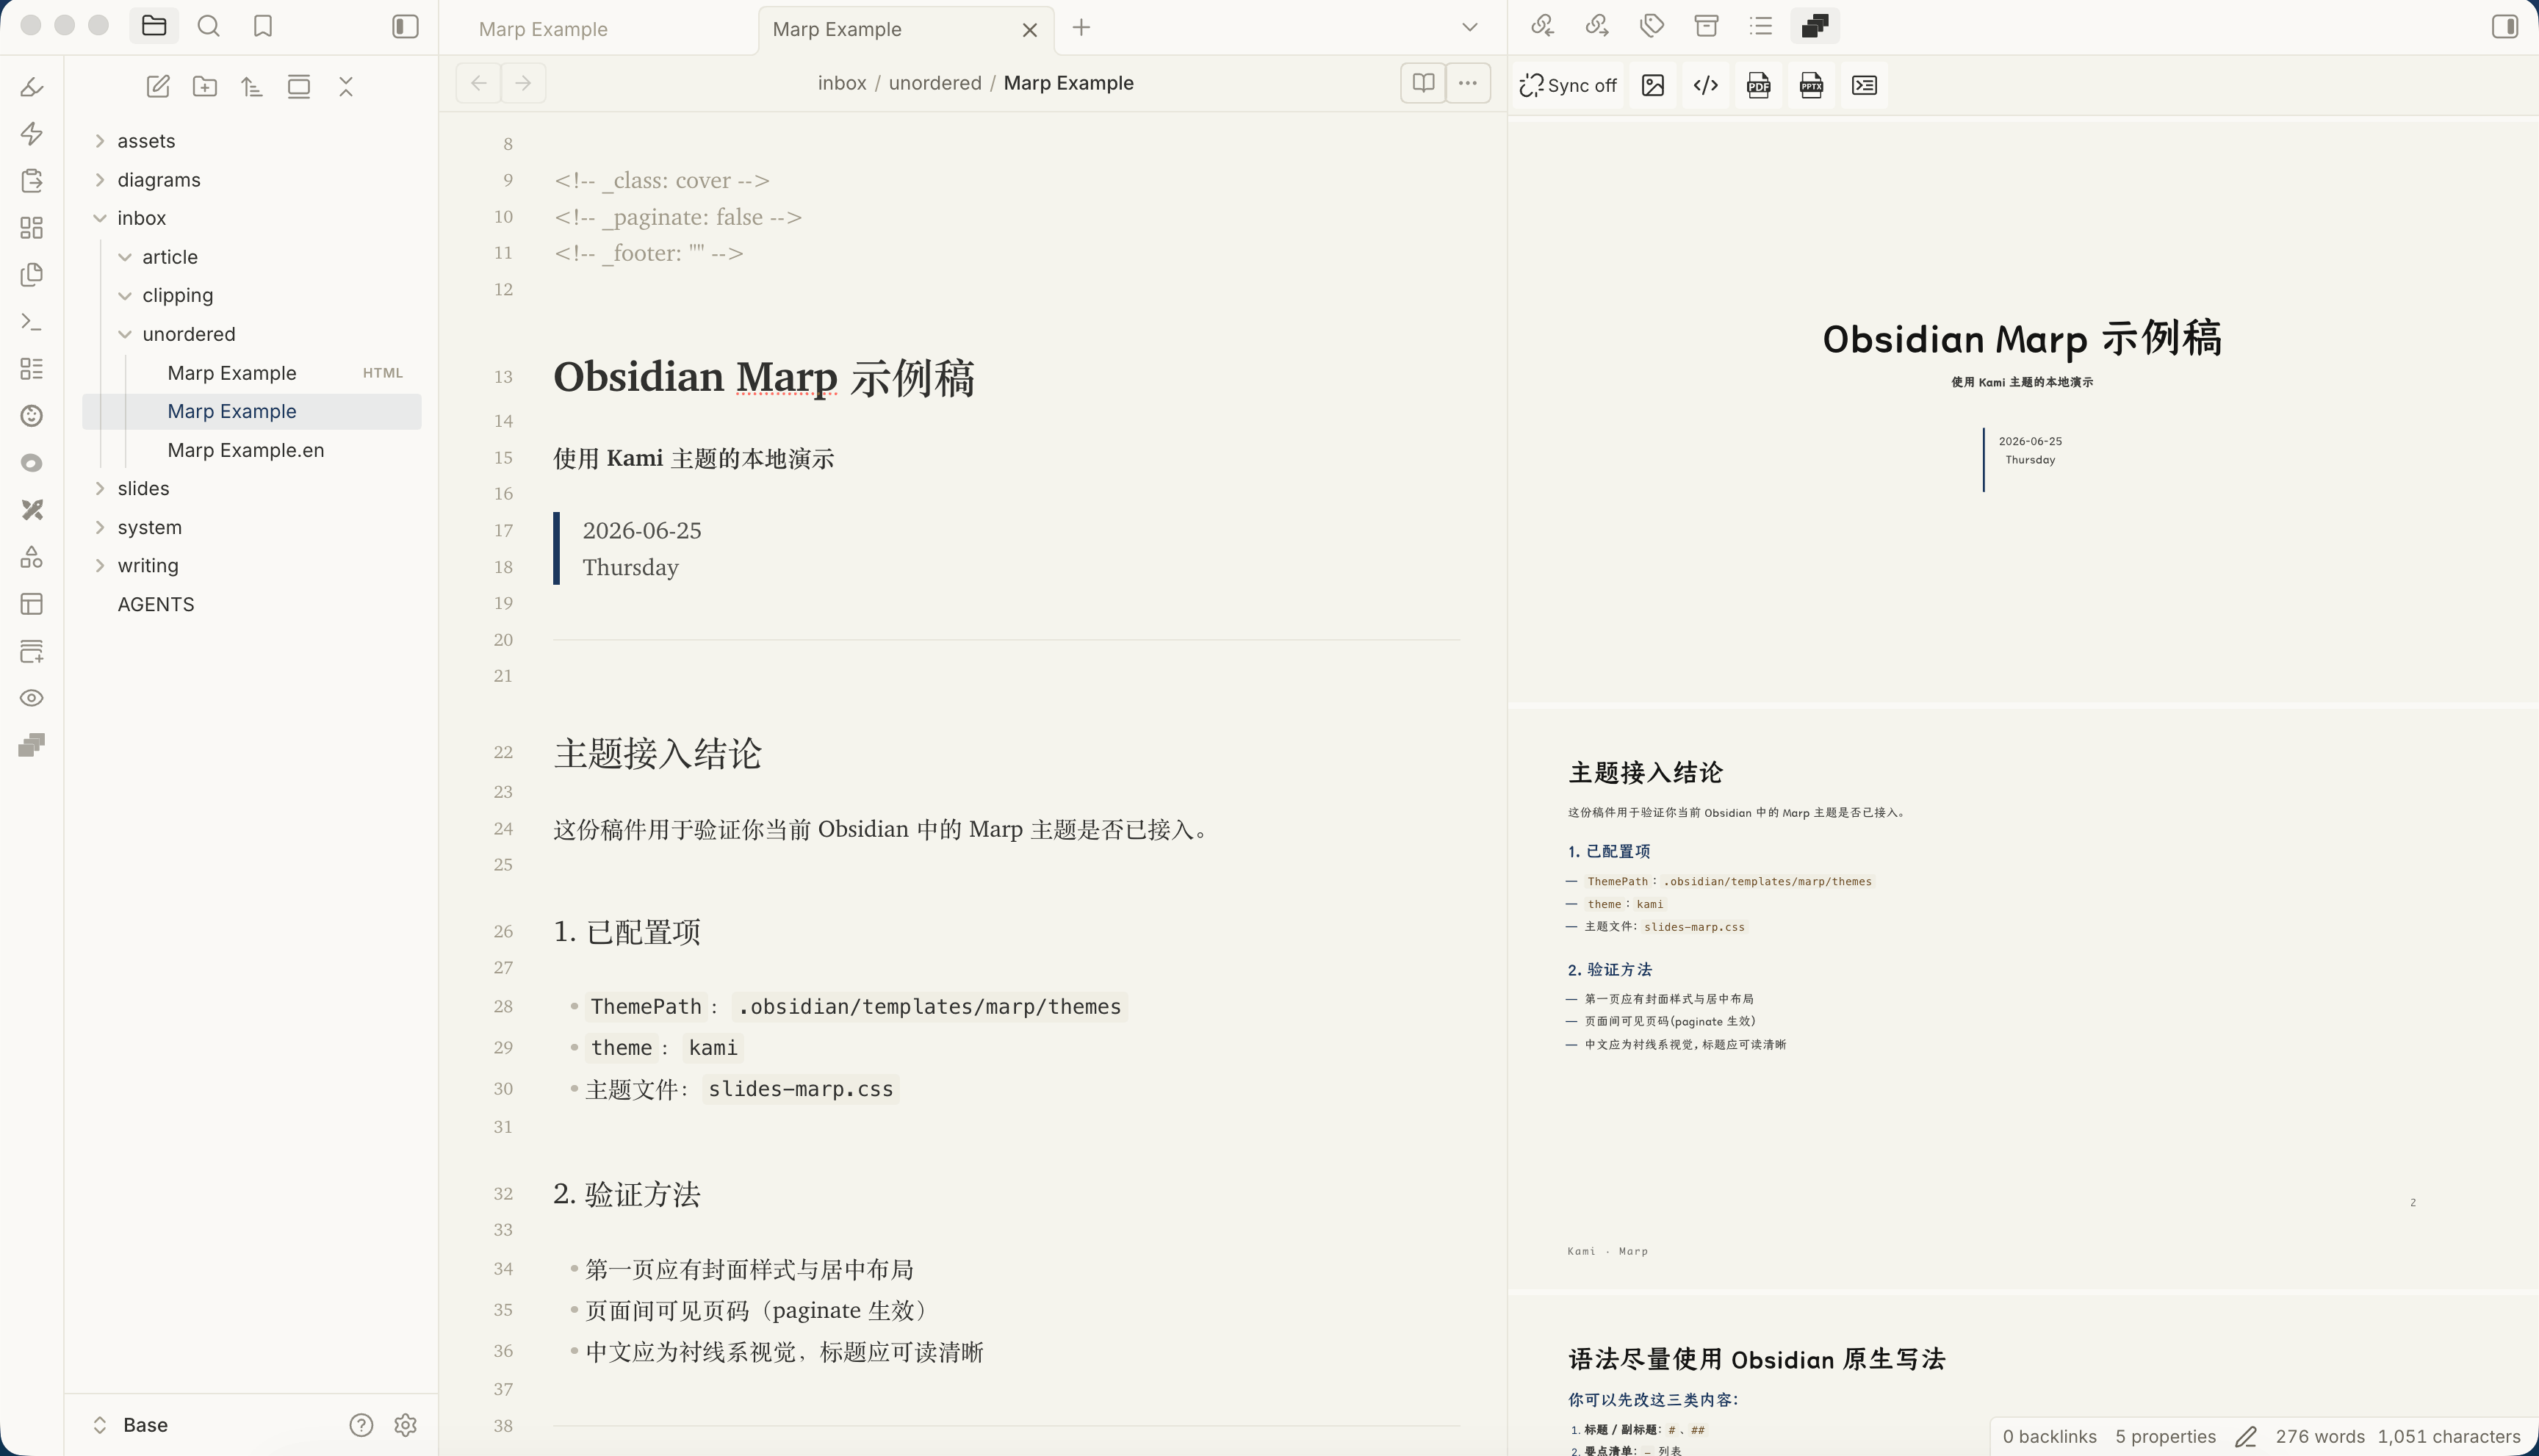
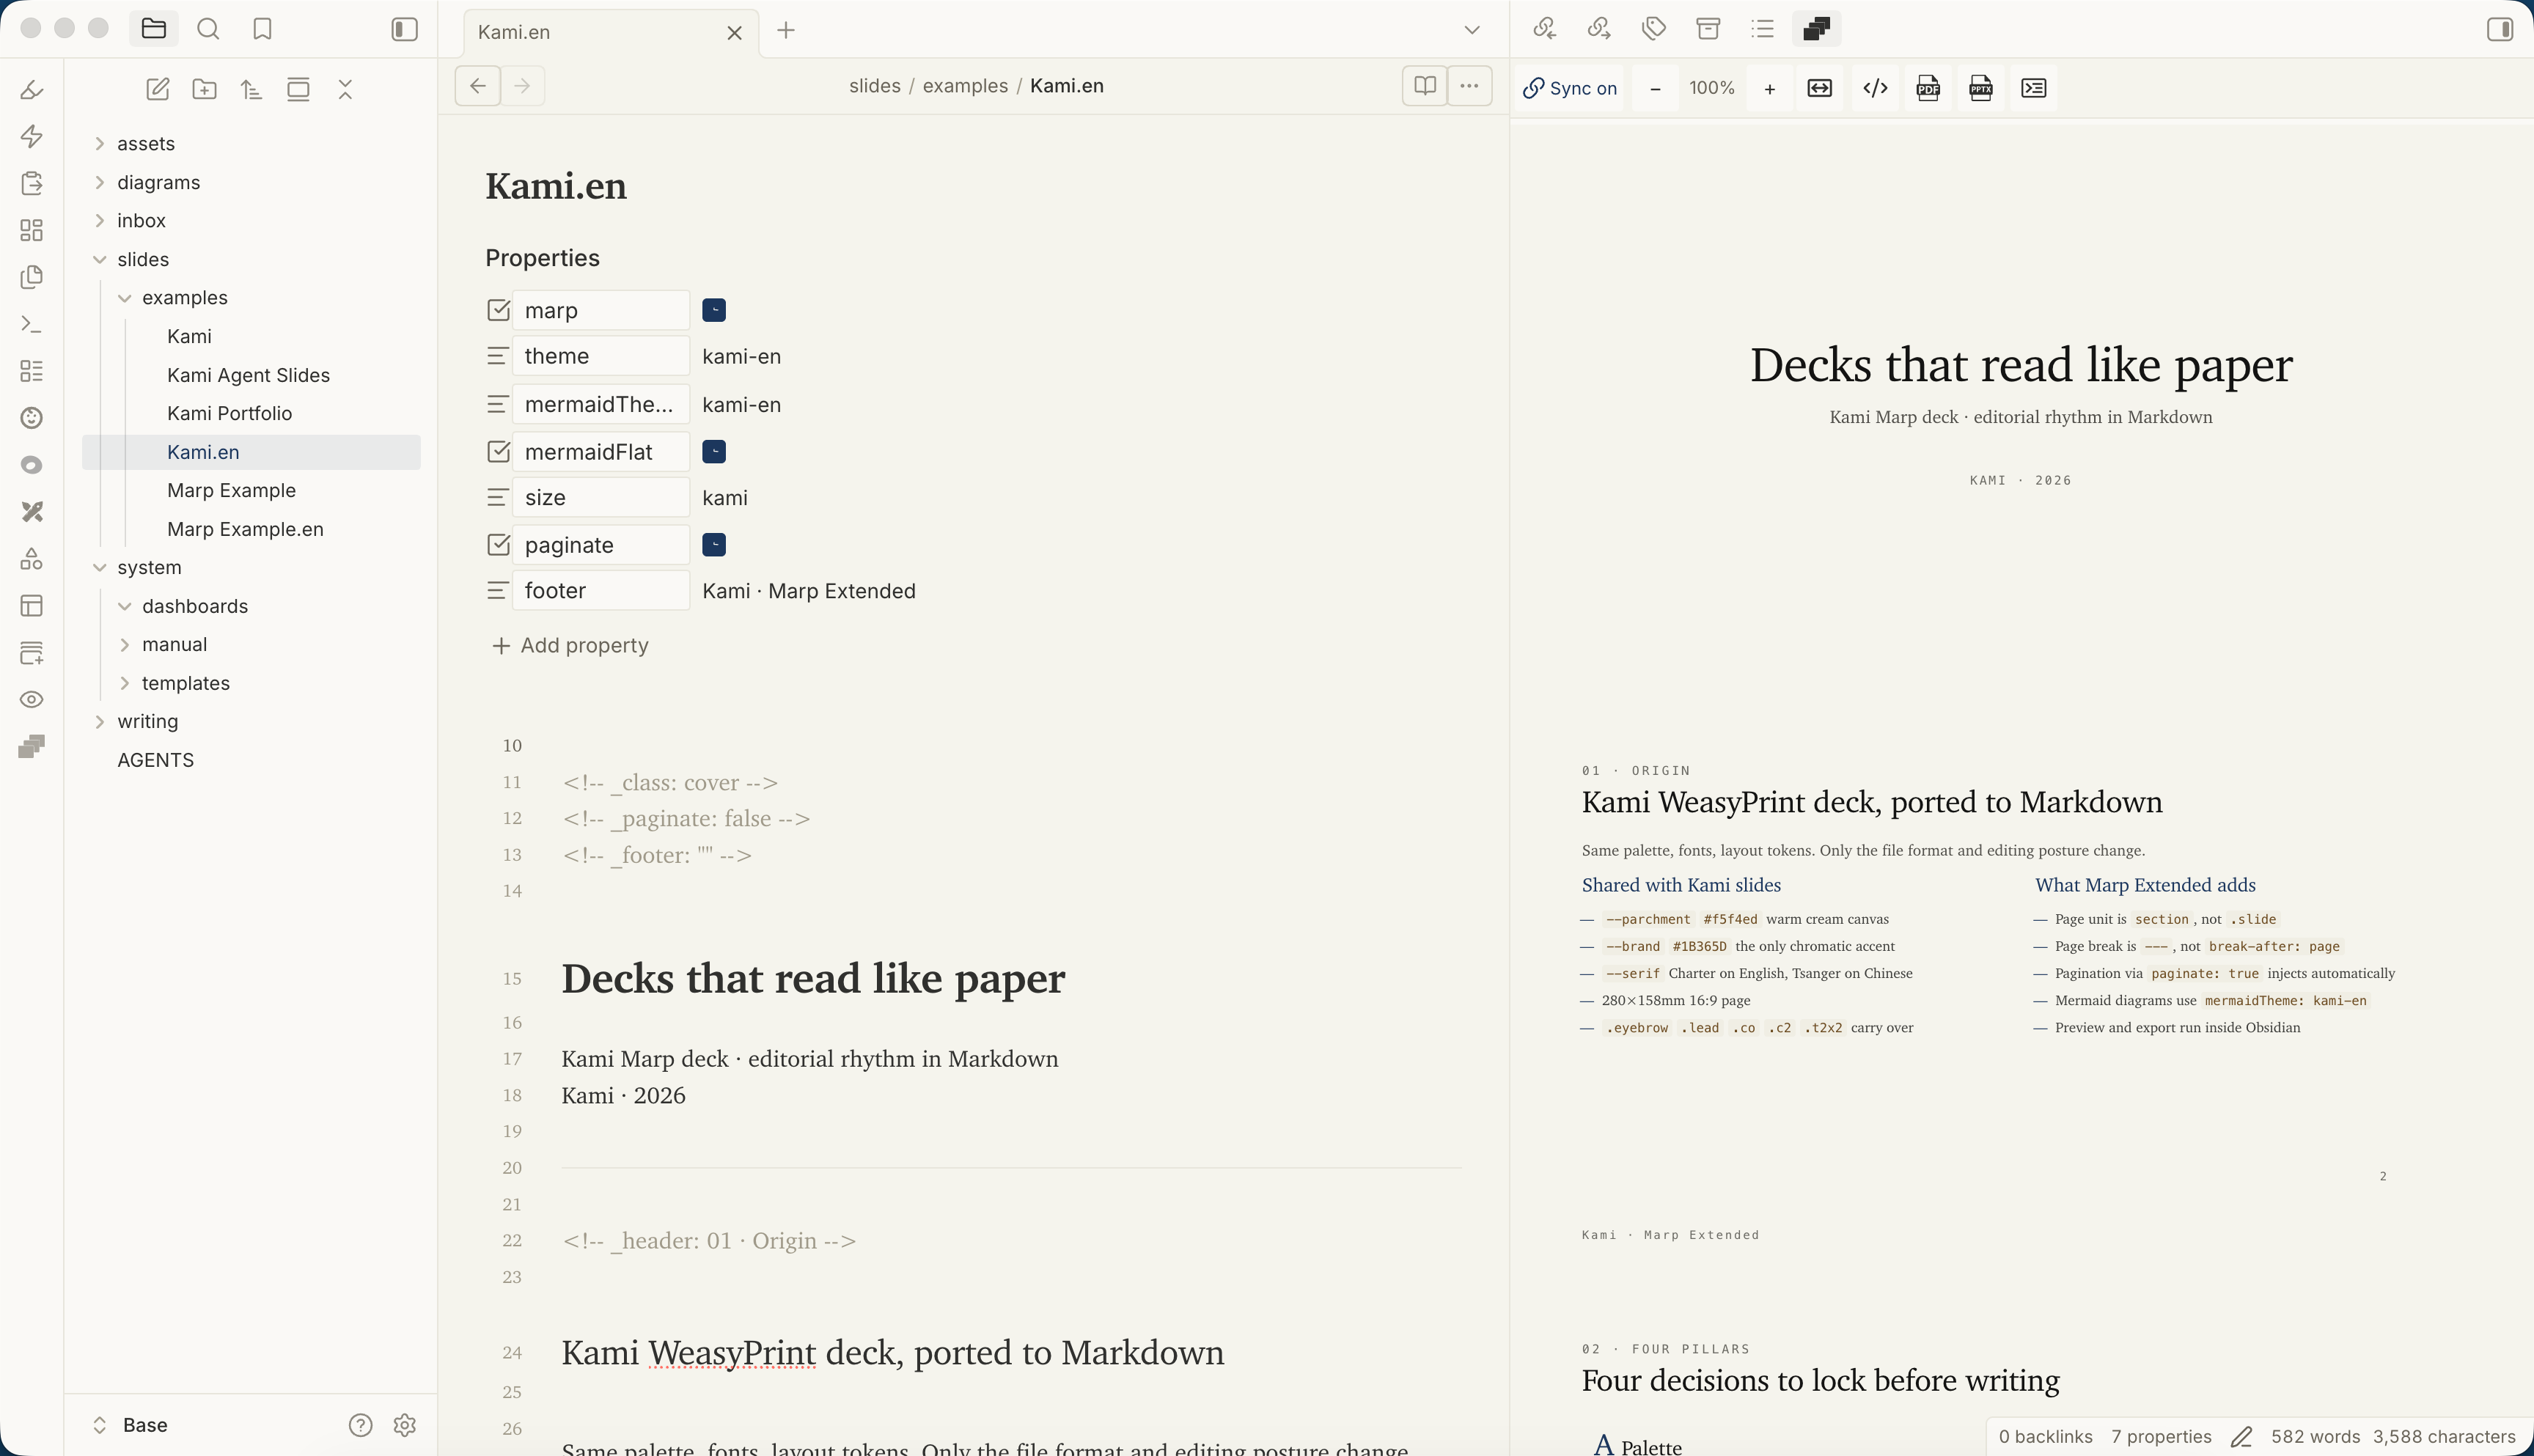
fix(export): remove PNG export option
Amp-Thread-ID: https://ampcode.com/threads/T-019f04c1-cb47-749e-b7e0-91de7cf0b121

diff --git a/tests/unit/marpExport.test.ts b/tests/unit/marpExport.test.ts
@@ -24,7 +24,7 @@ const marpCliMock = marpCli as unknown as jest.MockedFunction<(argv: string[], o
 type TestElectronRequire = (moduleName: string) => {
 	remote?: {
 		dialog?: {
-			showOpenDialog: (options: unknown) => Promise<{ canceled: boolean; filePaths?: string[] }>;
+			showSaveDialog?: (options: unknown) => Promise<{ canceled: boolean; filePath?: string }>;
 		};
 	};
 };
@@ -74,15 +74,13 @@ function createDiskBackedFile(root: string, markdownPath: string, content: strin
 
 	return file;
 }
-
-
-function mockFolderPicker(result: { canceled: boolean; filePaths?: string[] }) {
-	const showOpenDialog = jest.fn(async (_options: unknown) => result);
+function mockSaveDialog(result: { canceled: boolean; filePath?: string }) {
+	const showSaveDialog = jest.fn(async (_options: unknown) => result);
 	const electronRequire: TestElectronRequire = (moduleName: string) => {
 		if (moduleName === 'electron') {
 			return {
 				remote: {
-					dialog: { showOpenDialog },
+					dialog: { showSaveDialog },
 				},
 			};
 		}
@@ -91,7 +89,7 @@ function mockFolderPicker(result: { canceled: boolean; filePaths?: string[] }) {
 	};
 	(window as TestWindow).require = electronRequire;
 
-	return showOpenDialog;
+	return showSaveDialog;
 }
 
 beforeEach(() => {
@@ -106,27 +104,27 @@ afterEach(() => {
 	}
 });
 
-test('export selects a folder and passes output path to Marp CLI', async () => {
-	const showOpenDialog = mockFolderPicker({ canceled: false, filePaths: ['/tmp/export'] });
+test('export selects a file and passes output path to Marp CLI', async () => {
+	const showSaveDialog = mockSaveDialog({ canceled: false, filePath: '/tmp/export/custom.pdf' });
 	const exporter = new MarpExport(DEFAULT_SETTINGS);
 
 	await exporter.export(createFile(), 'pdf');
 
-	expect(showOpenDialog).toHaveBeenCalledWith({
-		title: 'Choose export folder',
-		defaultPath: 'vault/slides',
-		properties: ['openDirectory', 'createDirectory'],
+	expect(showSaveDialog).toHaveBeenCalledWith({
+		title: 'Choose export file',
+		defaultPath: 'vault/slides/deck.pdf',
+		filters: [{ name: 'PDF', extensions: ['pdf'] }],
 	});
 	expect(marpCliMock).toHaveBeenCalledTimes(1);
 	expect(marpCliMock.mock.calls[0][0]).toEqual(expect.arrayContaining([
 		'--pdf',
 		'-o',
-		'/tmp/export/deck.pdf',
+		'/tmp/export/custom.pdf',
 	]));
 });
 
 test('export cancellation does not run Marp CLI', async () => {
-	mockFolderPicker({ canceled: true });
+	mockSaveDialog({ canceled: true });
 	const exporter = new MarpExport(DEFAULT_SETTINGS);
 
 	await exporter.export(createFile(), 'pptx');
@@ -134,8 +132,8 @@ test('export cancellation does not run Marp CLI', async () => {
 	expect(marpCliMock).not.toHaveBeenCalled();
 });
 
-test('HTML export uses selected folder for output file', async () => {
-	mockFolderPicker({ canceled: false, filePaths: ['/tmp/export'] });
+test('HTML export uses selected file for output file', async () => {
+	mockSaveDialog({ canceled: false, filePath: '/tmp/export/custom.html' });
 	const exporter = new MarpExport(DEFAULT_SETTINGS);
 
 	await exporter.export(createFile(), 'html');
@@ -145,24 +143,8 @@ test('HTML export uses selected folder for output file', async () => {
 		'--template',
 		'bare',
 		'-o',
-		'/tmp/export/deck.html',
+		'/tmp/export/custom.html',
 	]));
-});
-
-test('PNG export writes the selected PNG output file', async () => {
-	mockFolderPicker({ canceled: false, filePaths: ['/tmp/export'] });
-	const exporter = new MarpExport(DEFAULT_SETTINGS);
-
-	await exporter.export(createFile(), 'png');
-
-	expect(marpCliMock.mock.calls[0][0]).toEqual(expect.arrayContaining([
-		'--image',
-		'png',
-		'-o',
-		'/tmp/export/deck.png',
-	]));
-	expect(marpCliMock.mock.calls[0][0]).not.toContain('--images');
-	expect(marpCliMock.mock.calls[0][0]).not.toContain('--png');
 });
 
 test('export converts wiki-links through a temporary markdown file without changing the source file', async () => {
@@ -177,7 +159,7 @@ test('export converts wiki-links through a temporary markdown file without chang
 
 	mkdirSync(exportDirectory, { recursive: true });
 	linkedImage.path = 'assets/image.png';
-	mockFolderPicker({ canceled: false, filePaths: [exportDirectory] });
+	mockSaveDialog({ canceled: false, filePath: join(exportDirectory, 'deck.pdf') });
 	marpCliMock.mockImplementationOnce(async (argv: string[]) => {
 		temporarySourcePath = argv[0];
 		expect(temporarySourcePath).not.toBe(sourcePath);
@@ -226,7 +208,7 @@ test('export injects selected Mermaid theme CSS and flat mode into the temporary
 		folders: [],
 	});
 	(file.vault.adapter as any).read = async (path: string) => readFileSync(join(root, path), 'utf-8');
-	mockFolderPicker({ canceled: false, filePaths: [exportDirectory] });
+	mockSaveDialog({ canceled: false, filePath: join(exportDirectory, 'deck.html') });
 	marpCliMock.mockImplementationOnce(async (argv: string[]) => {
 		temporarySourcePath = argv[0];
 		const processed = readFileSync(temporarySourcePath, 'utf-8');
@@ -256,7 +238,7 @@ test('export injects selected Mermaid theme CSS and flat mode into the temporary
 	expect(readFileSync(join(root, 'slides/deck.md'), 'utf-8')).toBe(originalContent);
 });
 
-test('export falls back to the source folder when native folder picker is unavailable', async () => {
+test('export falls back to the source path when native save dialog is unavailable', async () => {
 	const exporter = new MarpExport(DEFAULT_SETTINGS);
 
 	const outputPath = await exporter.export(createFile(), 'html');
@@ -269,7 +251,7 @@ test('export falls back to the source folder when native folder picker is unavai
 });
 
 test('export passes configured browser path to Marp CLI', async () => {
-	mockFolderPicker({ canceled: false, filePaths: ['/tmp/export'] });
+	mockSaveDialog({ canceled: false, filePath: '/tmp/export/deck.pdf' });
 	const exporter = new MarpExport({
 		...DEFAULT_SETTINGS,
 		CHROME_PATH: '/Applications/Google Chrome.app/Contents/MacOS/Google Chrome',
@@ -284,7 +266,7 @@ test('export passes configured browser path to Marp CLI', async () => {
 });
 
 test('export throws when Marp CLI returns a failing exit status', async () => {
-	mockFolderPicker({ canceled: false, filePaths: ['/tmp/export'] });
+	mockSaveDialog({ canceled: false, filePath: '/tmp/export/deck.html' });
 	marpCliMock.mockResolvedValue(1);
 	const exporter = new MarpExport(DEFAULT_SETTINGS);
 
@@ -292,7 +274,7 @@ test('export throws when Marp CLI returns a failing exit status', async () => {
 });
 
 test('export keeps Obsidian app URL createRequire patch while Marp CLI runs', async () => {
-	mockFolderPicker({ canceled: false, filePaths: ['/tmp/export'] });
+	mockSaveDialog({ canceled: false, filePath: '/tmp/export/deck.html' });
 	marpCliMock.mockImplementation(async () => {
 		const nodeModule = require('node:module') as { createRequire(filename: string | URL): NodeRequireFunction };
 
@@ -311,7 +293,7 @@ test('export forces CommonJS engine resolution only while Marp CLI runs', async 
 	const runtimeProcess = process as typeof process & { pkg?: unknown };
 	const hadPkg = Object.prototype.hasOwnProperty.call(runtimeProcess, 'pkg');
 	const originalPkg = runtimeProcess.pkg;
-	mockFolderPicker({ canceled: false, filePaths: ['/tmp/export'] });
+	mockSaveDialog({ canceled: false, filePath: '/tmp/export/deck.html' });
 	delete runtimeProcess.pkg;
 	marpCliMock.mockImplementation(async () => {
 		expect(Object.prototype.hasOwnProperty.call(runtimeProcess, 'pkg')).toBe(true);

diff --git a/src/utilities/marpExport.ts b/src/utilities/marpExport.ts
@@ -9,20 +9,23 @@ import { insertMarkdownAfterFrontmatter, loadMermaidThemeCssForFile, wrapMermaid
 
 export class MarpCLIError extends Error {}
 
-interface ElectronOpenDialogOptions {
+interface ElectronSaveDialogOptions {
     title: string;
     defaultPath?: string;
-    properties: string[];
+    filters?: Array<{
+        name: string;
+        extensions: string[];
+    }>;
 }
 
-interface ElectronOpenDialogResult {
+interface ElectronSaveDialogResult {
     canceled: boolean;
-    filePaths?: string[];
+    filePath?: string;
 }
 
 interface ElectronDialog {
-    showOpenDialog?: (options: ElectronOpenDialogOptions) => Promise<ElectronOpenDialogResult>;
-    showOpenDialogSync?: (options: ElectronOpenDialogOptions) => string[] | undefined;
+    showSaveDialog?: (options: ElectronSaveDialogOptions) => Promise<ElectronSaveDialogResult>;
+    showSaveDialogSync?: (options: ElectronSaveDialogOptions) => string | undefined;
 }
 
 interface ElectronModule {
@@ -68,7 +71,6 @@ const EXPORT_EXTENSIONS: Record<string, string> = {
     pdf: 'pdf',
     'pdf-with-notes': 'pdf',
     pptx: 'pptx',
-    png: 'png',
     html: 'html',
 };
 
@@ -195,11 +197,6 @@ export class MarpExport {
                     break;
                 case 'pptx':
                     argv.push('--pptx');
-                    this.pushOutputPath(argv, outputPath);
-                    break;
-                case 'png':
-                    argv.push('--image');
-                    argv.push('png');
                     this.pushOutputPath(argv, outputPath);
                     break;
                 case 'html':
@@ -354,12 +351,10 @@ export class MarpExport {
             return null;
         }
 
-        const directory = await this.chooseExportDirectory(filesTool.getCompleteFilePath(file));
-        if (!directory) {
-            return null;
-        }
+        const sourceFilePath = filesTool.getCompleteFilePath(file);
+        const defaultPath = join(dirname(sourceFilePath), `${file.basename}.${extension}`);
 
-        return join(directory, `${file.basename}.${extension}`);
+        return this.chooseExportFile(defaultPath, extension);
     }
 
     private pushOutputPath(argv: string[], outputPath: string | null): void {
@@ -380,31 +375,31 @@ export class MarpExport {
         argv.push(this.settings.CHROME_PATH);
     }
 
-    private async chooseExportDirectory(sourceFilePath: string): Promise<string | null> {
+    private async chooseExportFile(defaultPath: string, extension: string): Promise<string | null> {
         const dialog = this.getElectronDialog();
         if (!dialog) {
-            return sourceFilePath ? dirname(sourceFilePath) : null;
+            return defaultPath;
         }
 
-        const options: ElectronOpenDialogOptions = {
-            title: 'Choose export folder',
-            defaultPath: sourceFilePath ? dirname(sourceFilePath) : undefined,
-            properties: ['openDirectory', 'createDirectory'],
+        const options: ElectronSaveDialogOptions = {
+            title: 'Choose export file',
+            defaultPath,
+            filters: [{ name: extension.toUpperCase(), extensions: [extension] }],
         };
 
-        if (dialog.showOpenDialog) {
-            const result = await dialog.showOpenDialog(options);
+        if (dialog.showSaveDialog) {
+            const result = await dialog.showSaveDialog(options);
             if (result.canceled) {
                 return null;
             }
-            return result.filePaths?.[0] ?? null;
+            return result.filePath ?? null;
         }
 
-        if (dialog.showOpenDialogSync) {
-            return dialog.showOpenDialogSync(options)?.[0] ?? null;
+        if (dialog.showSaveDialogSync) {
+            return dialog.showSaveDialogSync(options) ?? null;
         }
 
-        throw new MarpCLIError('Folder picker is unavailable in this environment.');
+        return defaultPath;
     }
 
     private getElectronDialog(): ElectronDialog | null {

diff --git a/src/main.ts b/src/main.ts
@@ -98,12 +98,6 @@ export default class MarpSlides extends Plugin {
 			callback: (() => this.exportFile('pptx'))
 		});
 
-		this.addCommand({
-			id: 'export-png',
-			name: 'Export PNG',
-			callback: (() => this.exportFile('png'))
-		});		
-
 		// this.addCommand({
 		// 	id: 'export-deck',
 		// 	name: 'Export Deck',
@@ -167,14 +161,19 @@ export default class MarpSlides extends Plugin {
 			return;
 		}
 
+		let progressNotice: Notice | null = null;
 		try {
 			const { MarpExport } = await import('./utilities/marpExport');
 			const marpCli = new MarpExport(this.settings, this.app);
+			progressNotice = new Notice(`Exporting Marp slides as ${type.toUpperCase()}…`, 0);
 			const outputPath = await marpCli.export(file,type);
+			progressNotice.hide();
+			progressNotice = null;
 			if (outputPath) {
 				new Notice(`Exported Marp slides to ${outputPath}`, 7000);
 			}
 		} catch (error) {
+			progressNotice?.hide();
 			const message = error instanceof Error ? error.message : String(error);
 			console.error('Marp export failed:', error);
 			new Notice(`Marp export failed: ${message}`, 8000);

diff --git a/src/views/marpPreviewView.ts b/src/views/marpPreviewView.ts
@@ -155,7 +155,6 @@ export class MarpPreviewView extends ItemView  {
         const toolbar = container.createDiv({ cls: 'marp-extended-preview-toolbar' });
         this.addSyncPreviewToolbarButton(toolbar);
         this.addZoomToolbarControls(toolbar);
-        this.addPreviewToolbarButton(toolbar, 'image', 'Export as PNG', 'png');
         this.addPreviewToolbarButton(toolbar, 'code-glyph', 'Export as HTML', 'html');
         this.addPreviewToolbarButton(toolbar, 'slides-marp-export-pdf', 'Export as PDF', 'pdf');
         this.addPreviewToolbarButton(toolbar, 'slides-marp-export-pptx', 'Export as PPTX', 'pptx');
@@ -426,10 +425,6 @@ export class MarpPreviewView extends ItemView  {
     }
 
     addActions() {
-        this.addAction('image', 'Export as PNG', () => {
-            void this.exportFile('png');
-        });
-
         this.addAction('code-glyph', 'Export as HTML', () => {
             void this.exportFile('html');
         });
@@ -454,14 +449,19 @@ export class MarpPreviewView extends ItemView  {
             return;
         }
 
+        let progressNotice: Notice | null = null;
         try {
             const { MarpExport } = await import('../utilities/marpExport');
             const marpCli = new MarpExport(this.settings, this.app);
+            progressNotice = new Notice(`Exporting Marp slides as ${type.toUpperCase()}…`, 0);
             const outputPath = await marpCli.export(file, type);
+            progressNotice.hide();
+            progressNotice = null;
             if (outputPath) {
                 new Notice(`Exported Marp slides to ${outputPath}`, 7000);
             }
         } catch (error) {
+            progressNotice?.hide();
             const message = error instanceof Error ? error.message : String(error);
             console.error('Marp export failed:', error);
             new Notice(`Marp export failed: ${message}`, 8000);

diff --git a/tests/unit/marpExportReal.test.ts b/tests/unit/marpExportReal.test.ts
@@ -80,7 +80,6 @@ test('real Marp CLI exports a vault sample deck with a managed theme in every fi
 		{ type: 'pdf', path: join(root, 'samples/Academic.pdf') },
 		{ type: 'pdf-with-notes', path: join(root, 'samples/Academic.pdf') },
 		{ type: 'pptx', path: join(root, 'samples/Academic.pptx') },
-		{ type: 'png', path: join(root, 'samples/Academic.png') },
 		{ type: 'html', path: join(root, 'samples/Academic.html') },
 	];
 